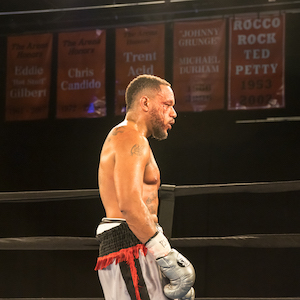
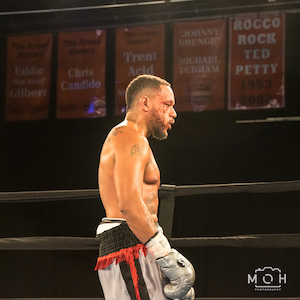
added watermark to events page

Changed region(s): [[0.81, 0.87, 0.96, 0.99]]

diff --git a/events.html b/events.html
@@ -72,26 +72,26 @@
   </div>
 <div class="events">
   <div class="images">
-    <a href="images/EventsFS/NFLDraft2.jpg"><img src="images/EventsTN/NFLDraft2.jpg" alt="Switzerland Stars">/></a>
-    <a href="images/EventsFS/NFLDraft1.jpg"><img src="images/EventsTN/NFLDraft1.jpg" alt="Cali CaliCoast">/></a>
-    <a href="images/EventsFS/NFLDraft3.jpg"><img src="images/EventsTN/NFLDraft3.jpg" alt="Lucerne Sunset">/></a>
-    <a href="images/EventsFS/NFLDraft4.jpg"><img src="images/EventsTN/NFLDraft4.jpg" alt="photo one">/></a>
-    <a href="images/EventsFS/NFLDraft5.jpg"><img src="images/EventsTN/NFLDraft5.jpg" alt="photo one">/></a>
-    <a href="images/EventsFS/NFLDraft6.jpg"><img src="images/EventsTN/NFLDraft6.jpg" alt="photo one">/></a>
-    <a href="images/EventsFS/NFLDraft7.jpg"><img src="images/EventsTN/NFLDraft7.jpg" alt="photo one">/></a>
-    <a href="images/EventsFS/NFLDraft8.jpg"><img src="images/EventsTN/NFLDraft8.jpg" alt="photo one">/></a>
-    <a href="images/EventsFS/NFLDraft9.jpg"><img src="images/EventsTN/NFLDraft9.jpg" alt="photo one">/></a>
-    <a href="images/EventsFS/Boxing1.jpg"><img src="images/EventsTN/Boxing1.jpg" alt="photo one">/></a>
-    <a href="images/EventsFS/Boxing2.jpg"><img src="images/EventsTN/boxing2.jpg" alt="photo one">/></a>
-    <a href="images/EventsFS/Boxing3.jpg"><img src="images/EventsTN/Boxing3.jpg" alt="photo one">/></a>
-    <a href="images/EventsFS/Boxing4.jpg"><img src="images/EventsTN/Boxing4.jpg" alt="photo one">/></a>
-    <a href="images/EventsFS/Boxing5.jpg"><img src="images/EventsTN/Boxing5.jpg" alt="photo one">/></a>
-    <a href="images/EventsFS/Boxing6.jpg"><img src="images/EventsTN/Boxing6.jpg" alt="photo one">/></a>
-    <a href="images/EventsFS/Boxing7.jpg"><img src="images/EventsTN/Boxing7.jpg" alt="photo one">/></a>
-    <a href="images/EventsFS/Boxing8.jpg"><img src="images/EventsTN/Boxing8.jpg" alt="photo one">/></a>
-    <a href="images/EventsFS/Boxing9.jpg"><img src="images/EventsTN/Boxing9.jpg" alt="photo one">/></a>
-    <a href="images/EventsFS/Boxing10.jpg"><img src="images/EventsTN/Boxing10.jpg" alt="photo one">/></a>
-    <a href="images/EventsFS/Boxing11.jpg"><img src="images/EventsTN/Boxing11.jpg" alt="photo one">/></a>
+    <a href="images/EventsFS/NFLDraft1.jpg"><img src="images/EventsTN/NFLDraft1.jpg" alt="NFL Draft 2017">/></a>
+    <a href="images/EventsFS/NFLDraft2.jpg"><img src="images/EventsTN/NFLDraft2.jpg" alt="NFL Draft 2017">/></a>
+    <a href="images/EventsFS/NFLDraft3.jpg"><img src="images/EventsTN/NFLDraft3.jpg" alt="NFL Draft 2017">/></a>
+    <a href="images/EventsFS/NFLDraft4.jpg"><img src="images/EventsTN/NFLDraft4.jpg" alt="NFL Draft 2017">/></a>
+    <a href="images/EventsFS/NFLDraft5.jpg"><img src="images/EventsTN/NFLDraft5.jpg" alt="NFL Draft 2017">/></a>
+    <a href="images/EventsFS/NFLDraft6.jpg"><img src="images/EventsTN/NFLDraft6.jpg" alt="NFL Draft 2017">/></a>
+    <a href="images/EventsFS/NFLDraft7.jpg"><img src="images/EventsTN/NFLDraft7.jpg" alt="NFL Draft 2017">/></a>
+    <a href="images/EventsFS/NFLDraft8.jpg"><img src="images/EventsTN/NFLDraft8.jpg" alt="NFL Draft 2017">/></a>
+    <a href="images/EventsFS/NFLDraft9.jpg"><img src="images/EventsTN/NFLDraft9.jpg" alt="NFL Draft 2017">/></a>
+    <a href="images/EventsFS/Boxing1.jpg"><img src="images/EventsTN/Boxing1.jpg" alt="Boxing">/></a>
+    <a href="images/EventsFS/Boxing2.jpg"><img src="images/EventsTN/boxing2.jpg" alt="Boxing">/></a>
+    <a href="images/EventsFS/Boxing3.jpg"><img src="images/EventsTN/Boxing3.jpg" alt="Boxing">/></a>
+    <a href="images/EventsFS/Boxing4.jpg"><img src="images/EventsTN/Boxing4.jpg" alt="Boxing">/></a>
+    <a href="images/EventsFS/Boxing5.jpg"><img src="images/EventsTN/Boxing5.jpg" alt="Boxing">/></a>
+    <a href="images/EventsFS/Boxing6.jpg"><img src="images/EventsTN/Boxing6.jpg" alt="Boxing">/></a>
+    <a href="images/EventsFS/Boxing7.jpg"><img src="images/EventsTN/Boxing7.jpg" alt="Boxing">/></a>
+    <a href="images/EventsFS/Boxing8.jpg"><img src="images/EventsTN/Boxing8.jpg" alt="Boxing">/></a>
+    <a href="images/EventsFS/Boxing9.jpg"><img src="images/EventsTN/Boxing9.jpg" alt="Boxing">/></a>
+    <a href="images/EventsFS/Boxing10.jpg"><img src="images/EventsTN/Boxing10.jpg" alt="Boxing">/></a>
+    <a href="images/EventsFS/Boxing11.jpg"><img src="images/EventsTN/Boxing11.jpg" alt="Boxing">/></a>
     <a href="images/EventsFS/CambodiaFS.jpg"><img src="images/EventsTN/IMGP0745-2.jpg" alt="photo one">/></a>
   </div>
 </div>
